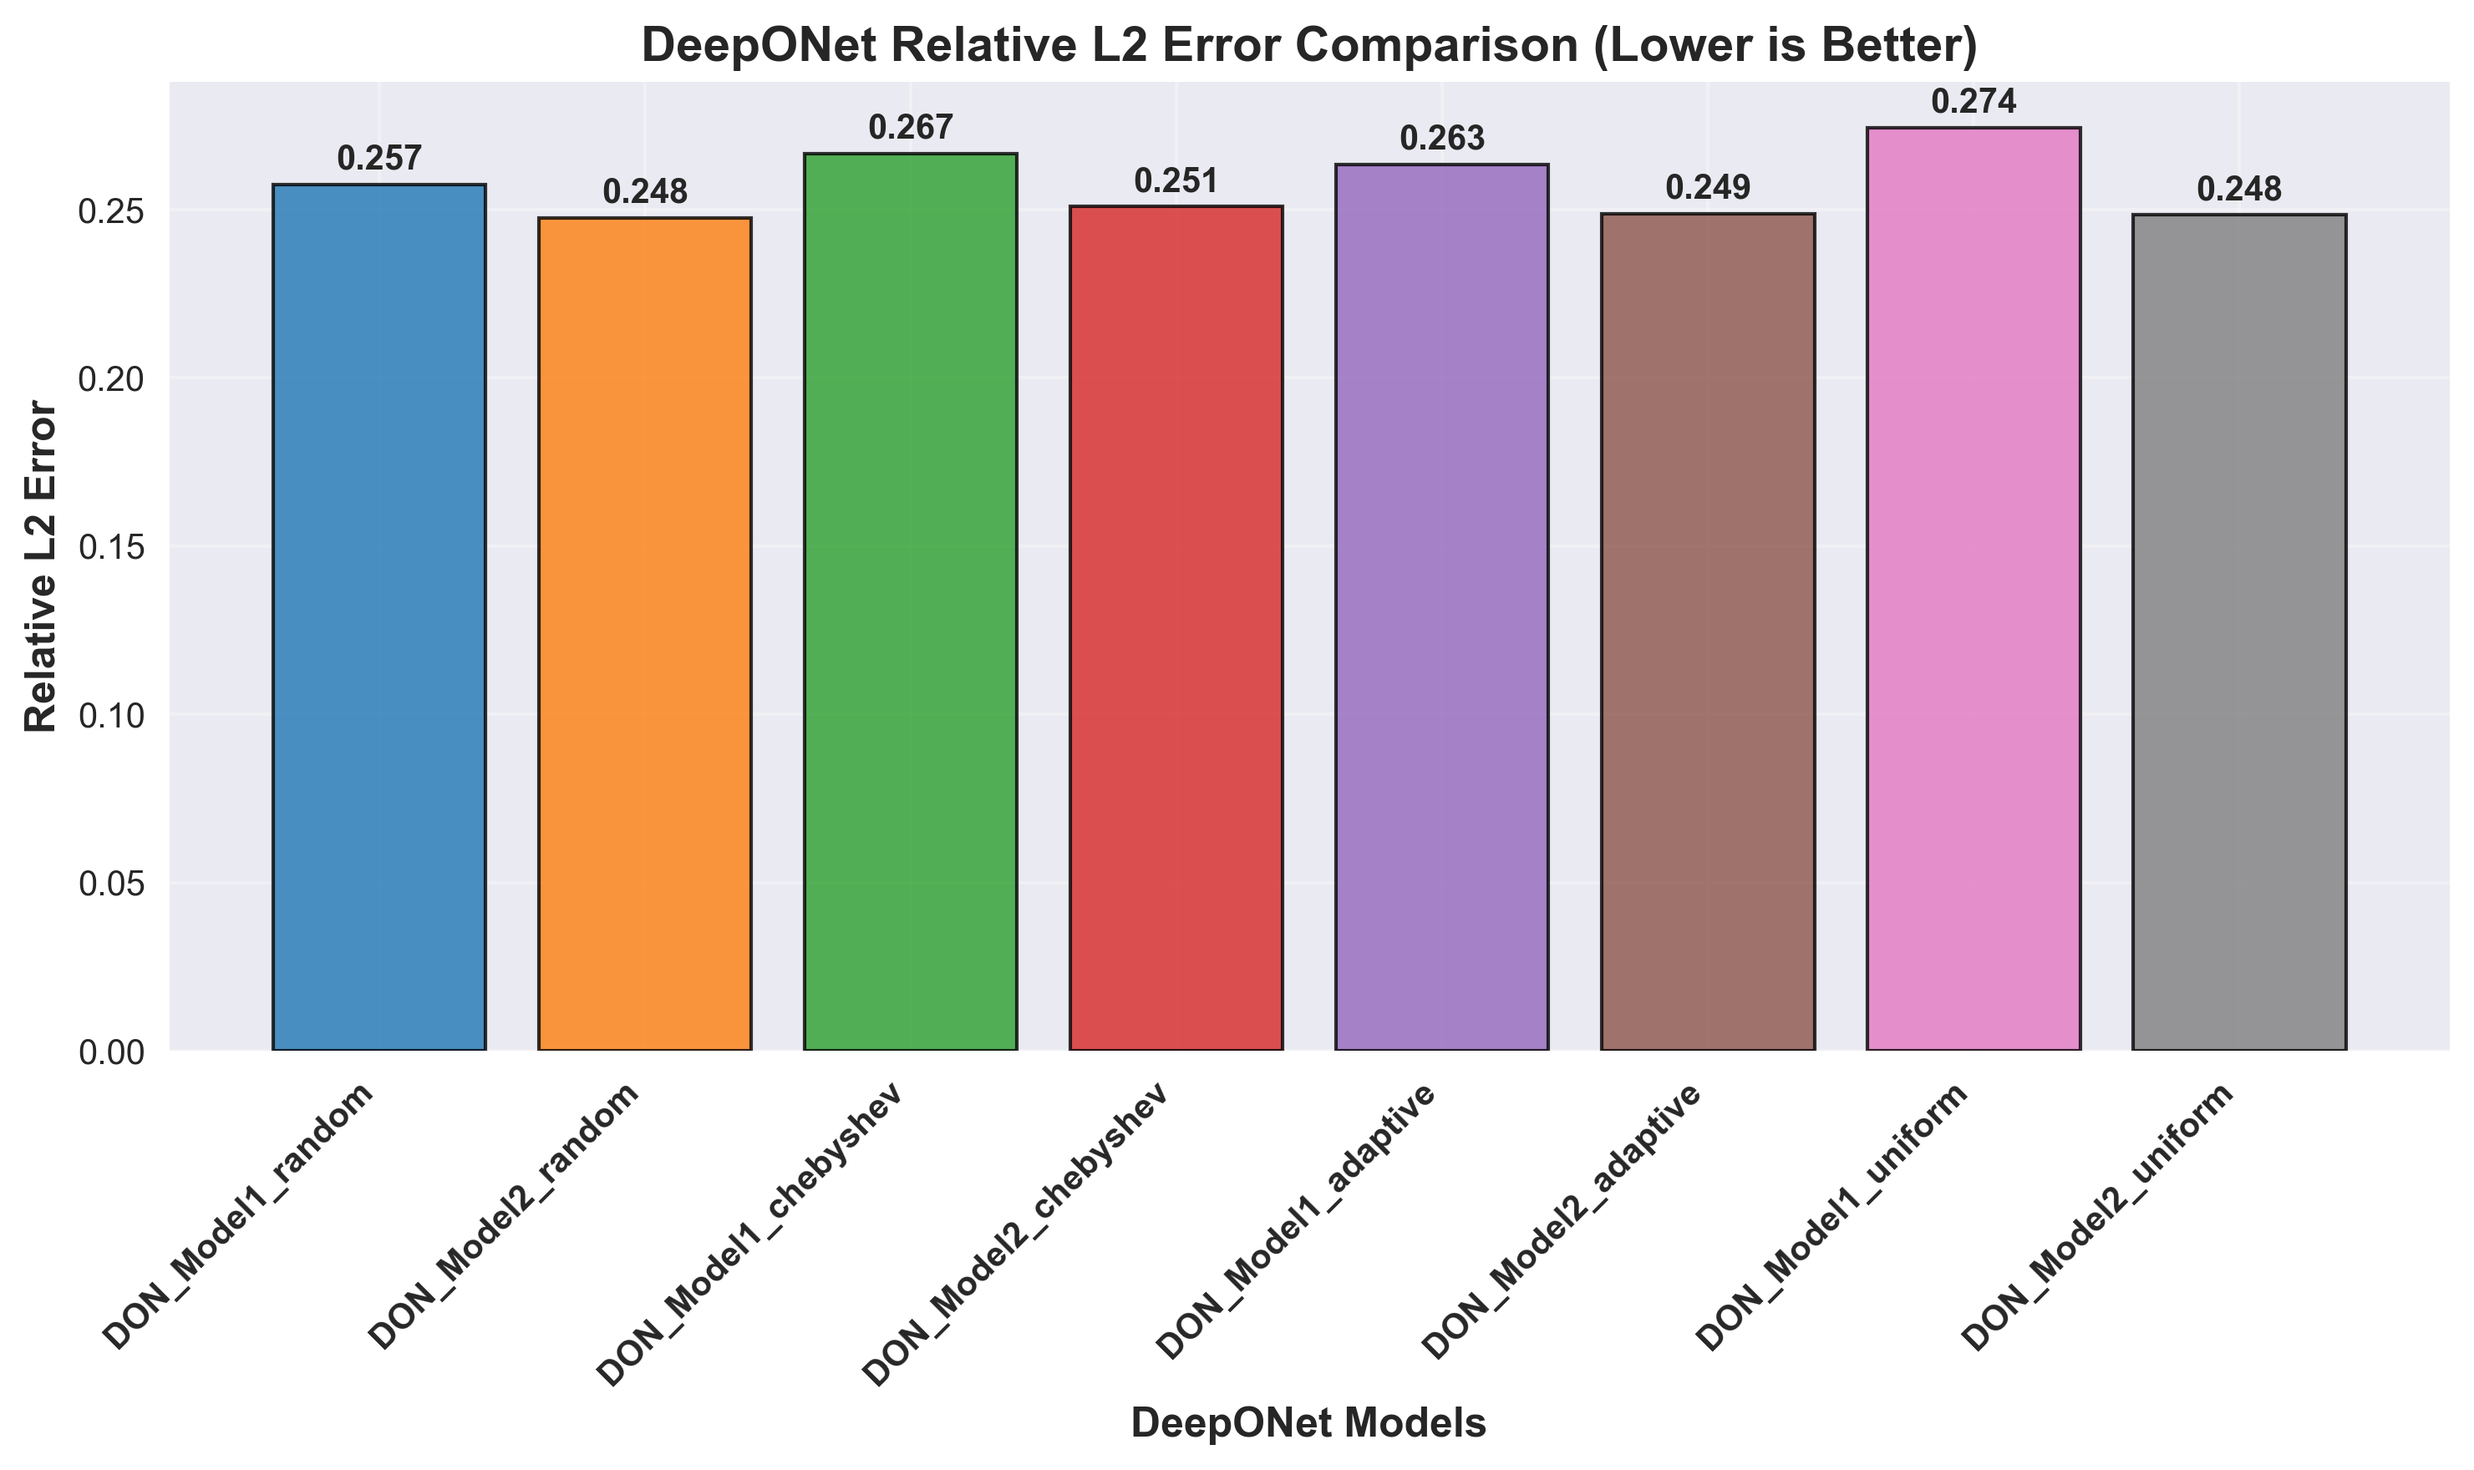
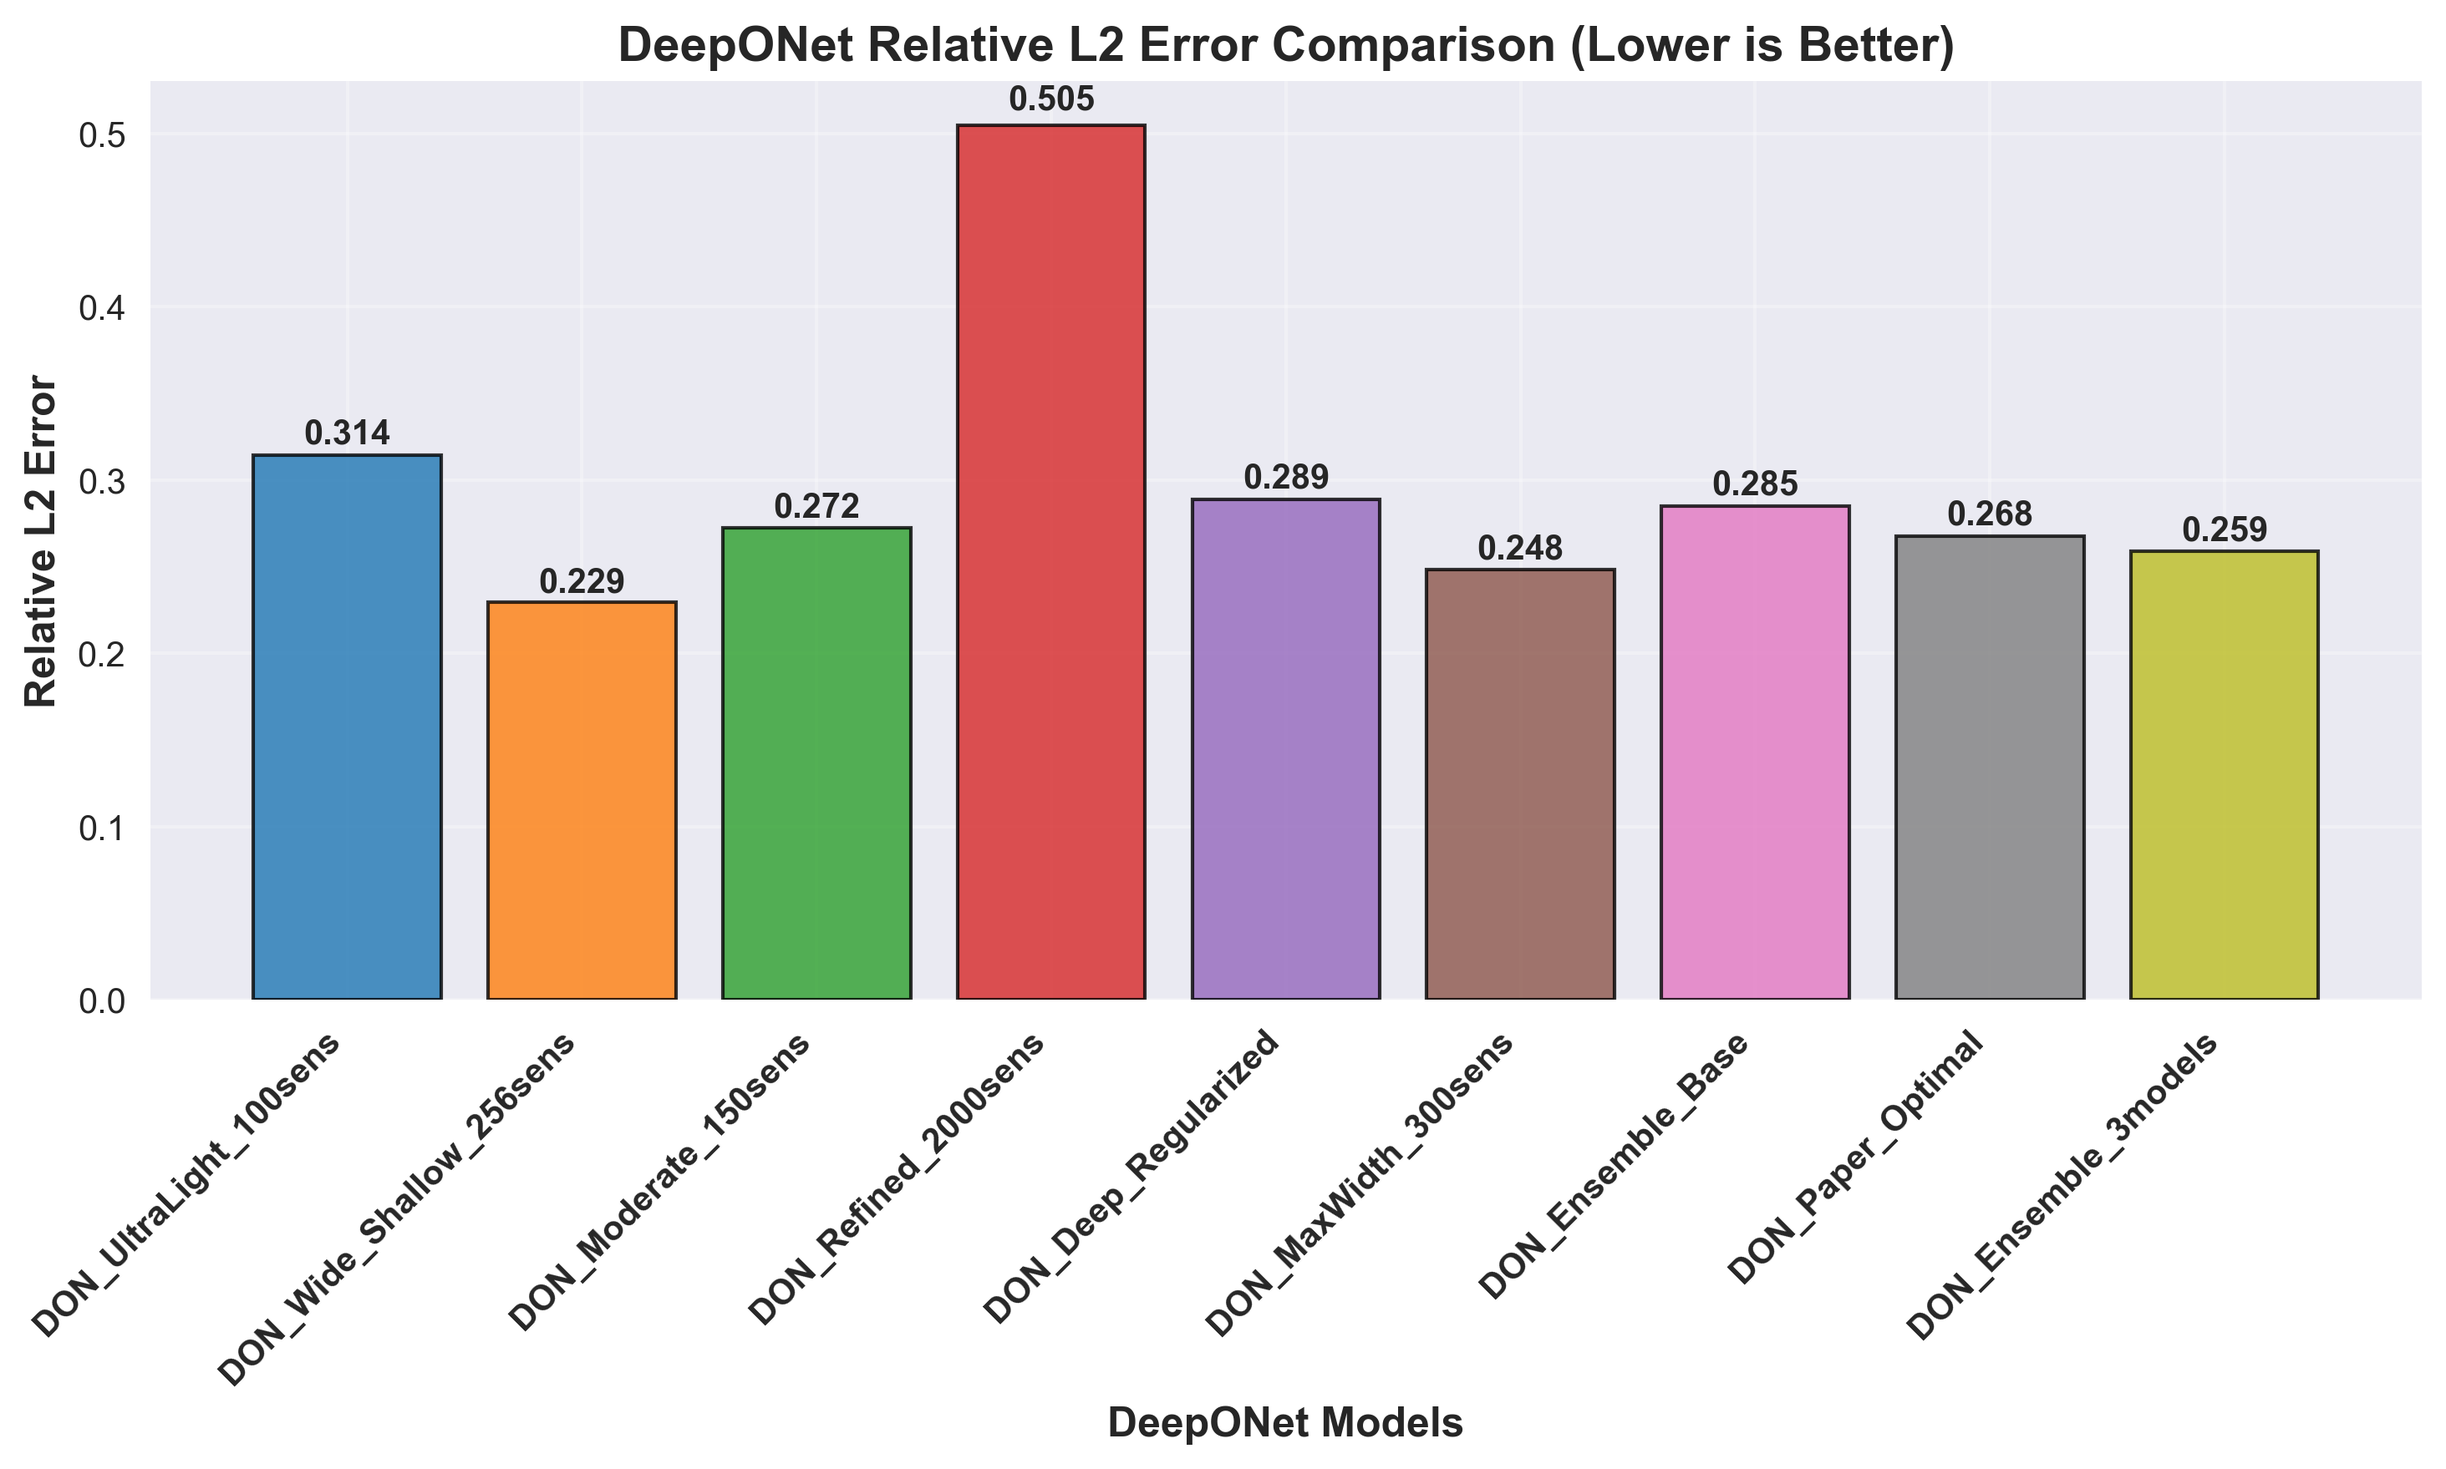
test

diff --git a/main.py b/main.py
@@ -48,33 +48,12 @@ if __name__ == "__main__":
     
     # Initialize models - Optimized for your original DeepONet class
     models = [
-        # Model 1: Ultra-Light (Minimal parameters, fast baseline)
-        # Paper shows 100 sensors is critical point, 2 layers works well
         DeepONetOperator(
             device,
-            "DeepONet_UltraLight_100sens",
-            grid_size=GRID_SIZE,
-            n_sensors=100,                   # Paper critical point
-            hidden_size=128,                 # Small but effective
-            num_layers=2,                    # Shallow (paper Fig. 2)
-            activation='relu',               # Simple and fast
-            lr=3e-3,                        # Higher LR for small network
-            step_size=50,
-            gamma=0.85,
-            weight_decay=5e-5,              # More regularization
-            epochs=1200,                    # More epochs for small net
-            sensor_strategy='uniform',      # Guaranteed coverage
-            normalize_sensors=True,
-            dropout=0.25                    # Heavy dropout for regularization
-        ),
-        
-        # Model 2: Wide-Shallow (Paper shows excellent performance)
-        DeepONetOperator(
-            device,
-            "DeepONet_Wide_Shallow_256sens",
+            "DeepONet_Wide_Shallow_256sens_chebyshev",
             grid_size=GRID_SIZE,
             n_sensors=256,                   # More sensors
-            hidden_size=512,                 # Very wide
+            hidden_size=1024,                 # Very wide
             num_layers=2,                    # Very shallow
             activation='gelu',               # Better for wide networks
             lr=5e-4,                        # Lower LR for wide network
@@ -86,121 +65,58 @@ if __name__ == "__main__":
             normalize_sensors=True,
             dropout=0.05                    # Light dropout for shallow
         ),
-        
-        # Model 3: Moderate Depth Optimized
-        DeepONetOperator(
+                DeepONetOperator(
             device,
-            "DeepONet_Moderate_150sens",
+            "DeepONet_Wide_Shallow_256sens_random",
             grid_size=GRID_SIZE,
-            n_sensors=150,                   # Balanced sensors
-            hidden_size=200,                 # Moderate size
-            num_layers=4,                    # Paper suggests 2-4 layers
-            activation='gelu',               # Good general activation
-            lr=1e-3,                        # Standard LR
-            step_size=80,
-            gamma=0.92,
-            weight_decay=2e-5,
-            epochs=1000,
-            sensor_strategy='adaptive',      # Mix uniform and boundary
-            normalize_sensors=True,
-            dropout=0.15                    # Moderate dropout
-        ),
-        
-        # Model 4: Your best config refined (reduced sensors)
-        DeepONetOperator(
-            device,
-            "DeepONet_Refined_2000sens",
-            grid_size=GRID_SIZE,
-            n_sensors=2000,                  # Reduced from 3800
-            hidden_size=300,                 # Slightly smaller than before
-            num_layers=4,                    # Moderate depth
-            activation='gelu',               # Keep what worked
-            lr=2e-3,                        # Higher LR
-            step_size=60,
-            gamma=0.93,
-            weight_decay=1e-5,
-            epochs=800,
-            sensor_strategy='random',        # Random worked for you
-            normalize_sensors=True,
-            dropout=0.1                     # Balanced dropout
-        ),
-        
-        # Model 5: Deep with Heavy Regularization
-        DeepONetOperator(
-            device,
-            "DeepONet_Deep_Regularized",
-            grid_size=GRID_SIZE,
-            n_sensors=200,                   
-            hidden_size=180,                 # Smaller hidden for deep
-            num_layers=6,                    # Deeper network
-            activation='mish',               # Good for deep networks
-            lr=8e-4,
+            n_sensors=256,                   # More sensors
+            hidden_size=1024,                 # Very wide
+            num_layers=2,                    # Very shallow
+            activation='gelu',               # Better for wide networks
+            lr=5e-4,                        # Lower LR for wide network
             step_size=100,
-            gamma=0.88,
-            weight_decay=4e-5,              # More weight decay
-            epochs=900,
-            sensor_strategy='chebyshev',
-            normalize_sensors=True,
-            dropout=0.2                     # Heavy dropout for deep
-        ),
-        
-        # Model 6: Maximum Width Strategy
-        DeepONetOperator(
-            device,
-            "DeepONet_MaxWidth_300sens",
-            grid_size=GRID_SIZE,
-            n_sensors=300,
-            hidden_size=768,                 # Very wide
-            num_layers=3,                    # Shallow-moderate
-            activation='gelu',
-            lr=3e-4,                        # Very low LR for huge network
-            step_size=120,
-            gamma=0.85,
-            weight_decay=5e-5,              # Strong regularization
-            epochs=600,
-            sensor_strategy='adaptive',
-            normalize_sensors=True,
-            dropout=0.08                    # Light dropout for wide
-        ),
-        
-        # Model 7: Ensemble-Ready Small Model
-        DeepONetOperator(
-            device,
-            "DeepONet_Ensemble_Base",
-            grid_size=GRID_SIZE,
-            n_sensors=120,
-            hidden_size=150,
-            num_layers=3,
-            activation='relu',
-            lr=2.5e-3,
-            step_size=70,
             gamma=0.9,
             weight_decay=3e-5,
-            epochs=1000,
-            sensor_strategy='uniform',
+            epochs=800,
+            sensor_strategy='random',    # Better interpolation
             normalize_sensors=True,
-            dropout=0.18
+            dropout=0.05                    # Light dropout for shallow
         ),
-        
-        # Model 8: Paper-Optimal Configuration
-        # Based on paper's best practices
         DeepONetOperator(
             device,
-            "DeepONet_Paper_Optimal",
+            "DeepONet_Wide_Shallow_256sens_adaptive",
             grid_size=GRID_SIZE,
-            n_sensors=100,                   # Paper's critical point
-            hidden_size=256,                 # Moderate-wide
-            num_layers=3,                    # Paper's sweet spot
-            activation='gelu',               # Modern activation
-            lr=1.5e-3,
-            step_size=90,
-            gamma=0.91,
-            weight_decay=2e-5,
-            epochs=1000,
-            sensor_strategy='chebyshev',    # Best for smooth functions
+            n_sensors=256,                   # More sensors
+            hidden_size=1024,                 # Very wide
+            num_layers=2,                    # Very shallow
+            activation='gelu',               # Better for wide networks
+            lr=5e-4,                        # Lower LR for wide network
+            step_size=100,
+            gamma=0.9,
+            weight_decay=3e-5,
+            epochs=800,
+            sensor_strategy='adaptive',    # Better interpolation
             normalize_sensors=True,
-            dropout=0.12
-        )
+            dropout=0.05                    # Light dropout for shallow
+        ),
+            DeepONetOperator(
+            device,
+            "DeepONet_Wide_Shallow_256sens_uniform",
+            grid_size=GRID_SIZE,
+            n_sensors=256,                   # More sensors
+            hidden_size=1024,                 # Very wide
+            num_layers=2,                    # Very shallow
+            activation='gelu',               # Better for wide networks
+            lr=5e-4,                        # Lower LR for wide network
+            step_size=100,
+            gamma=0.9,
+            weight_decay=3e-5,
+            epochs=800,
+            sensor_strategy='uniform',    # Better interpolation
+            normalize_sensors=True,
+            dropout=0.05                    # Light dropout for shallow
+        ),
+        
     ]
     
     # Print model summaries before training
